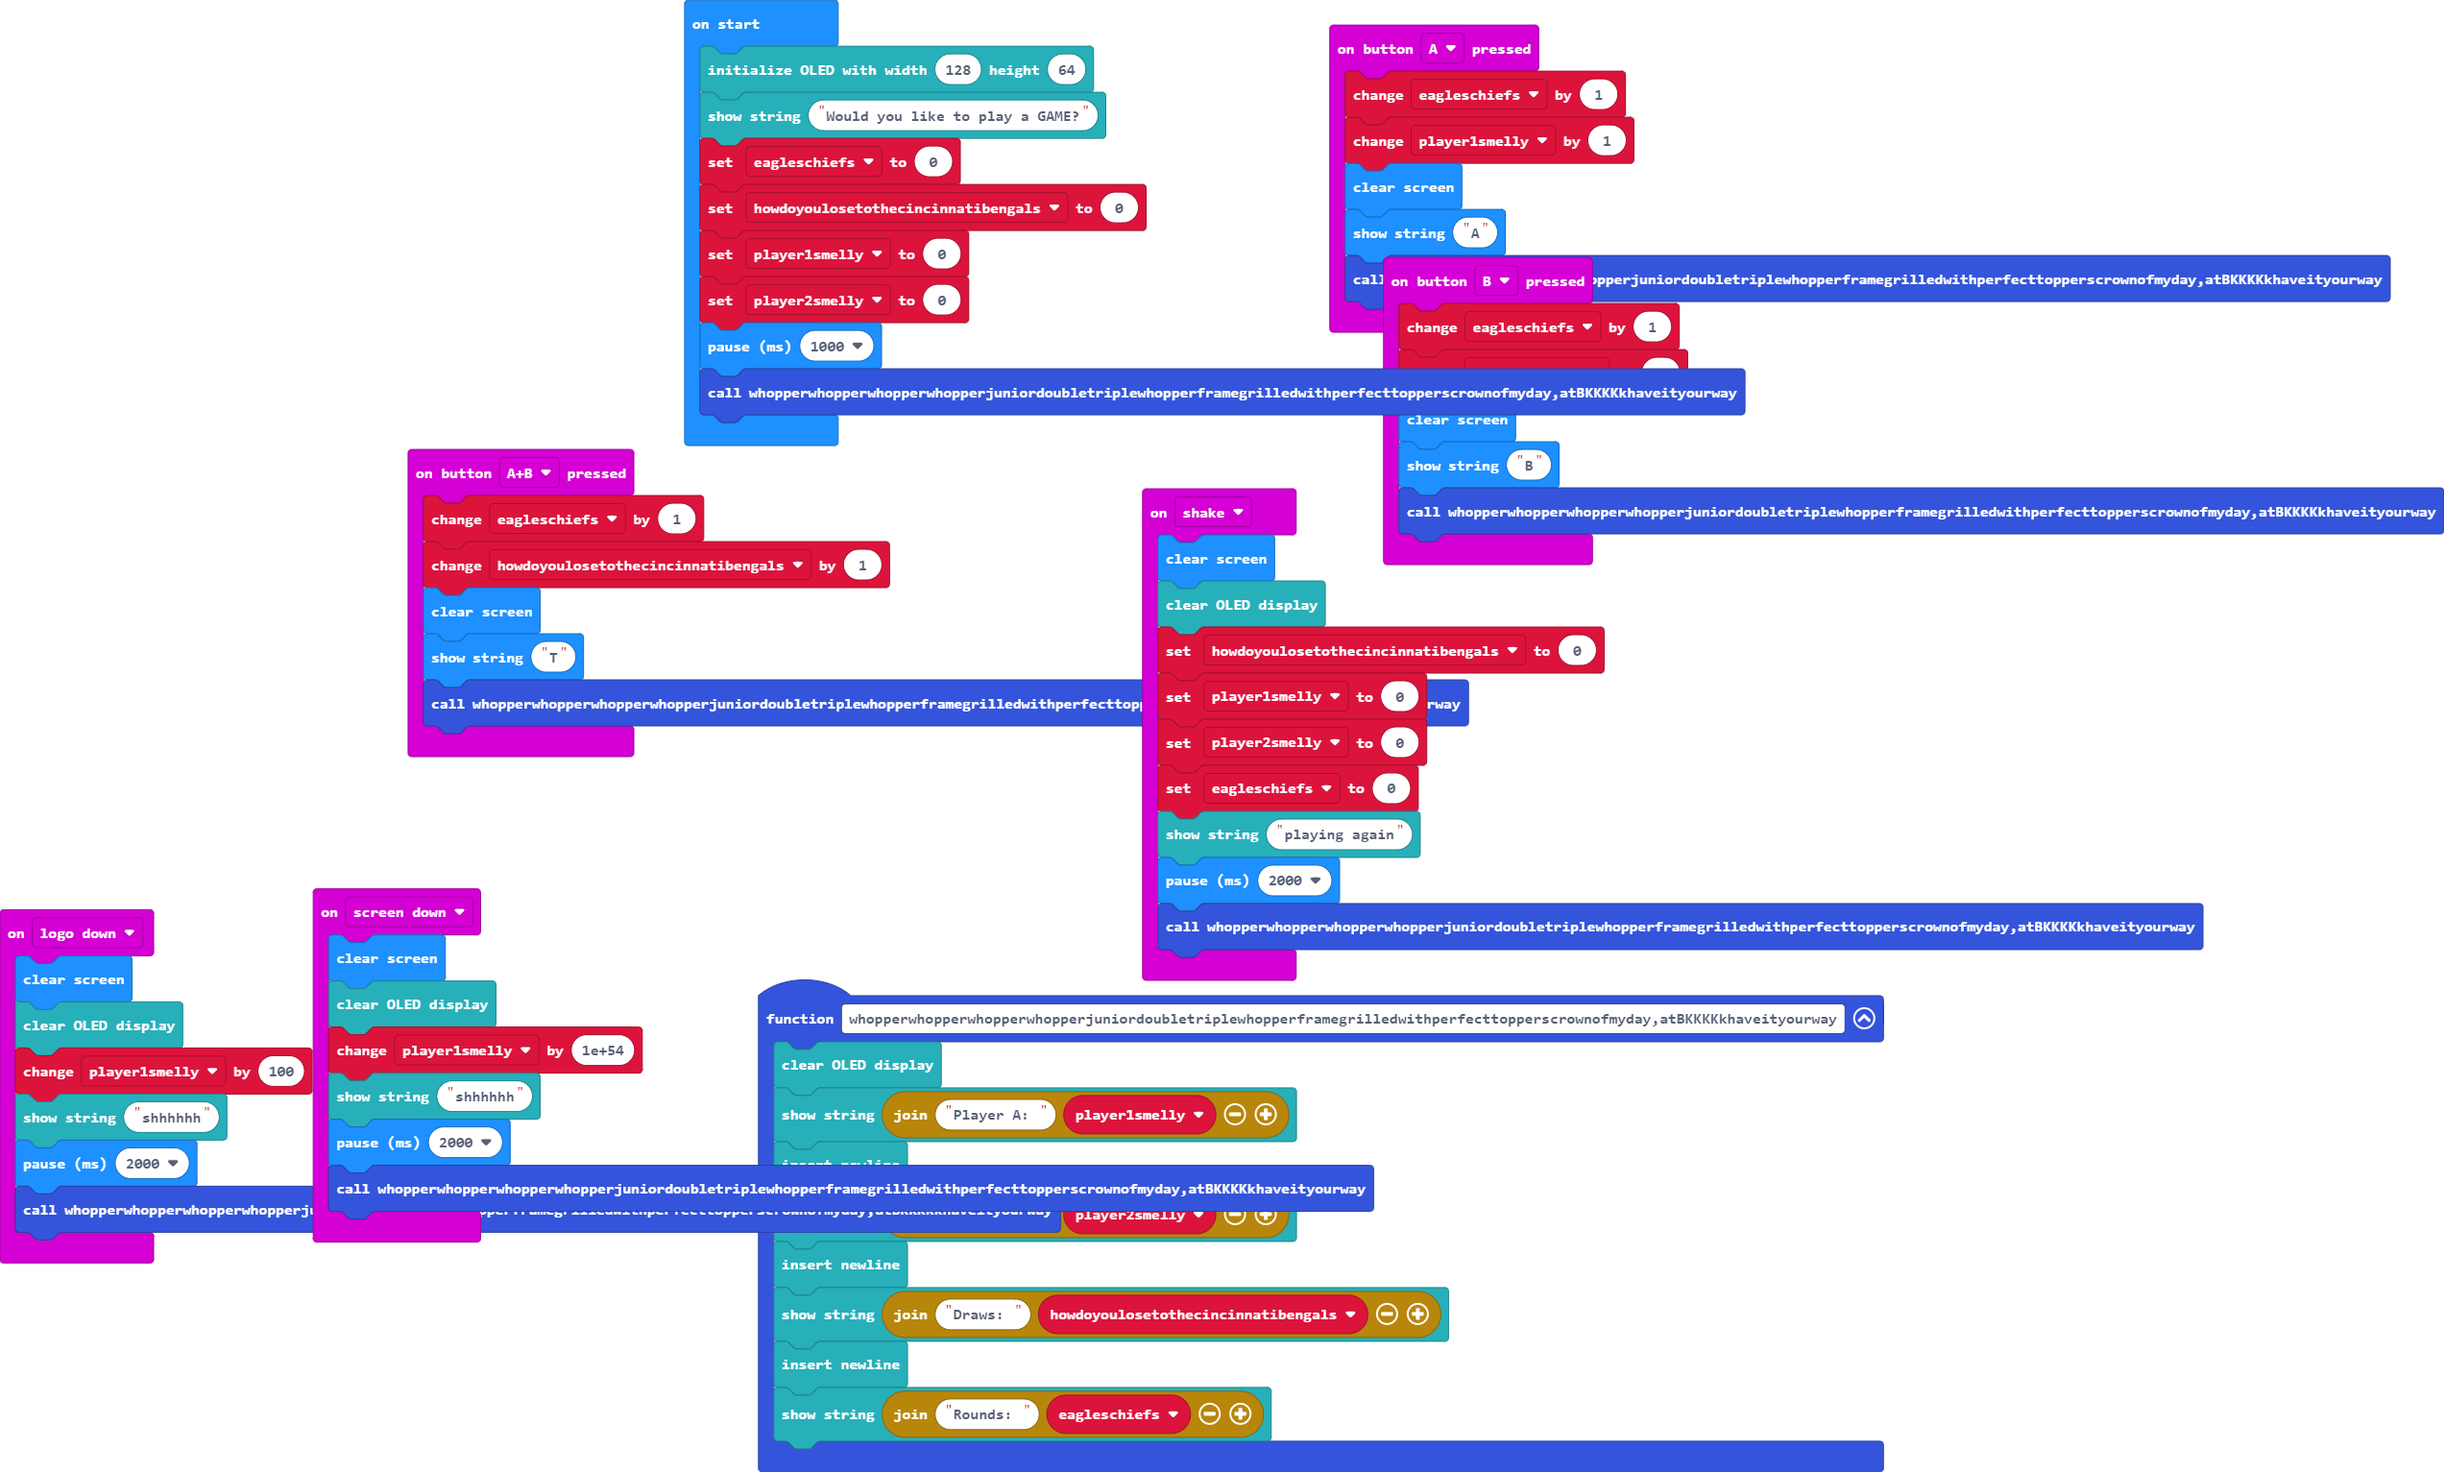
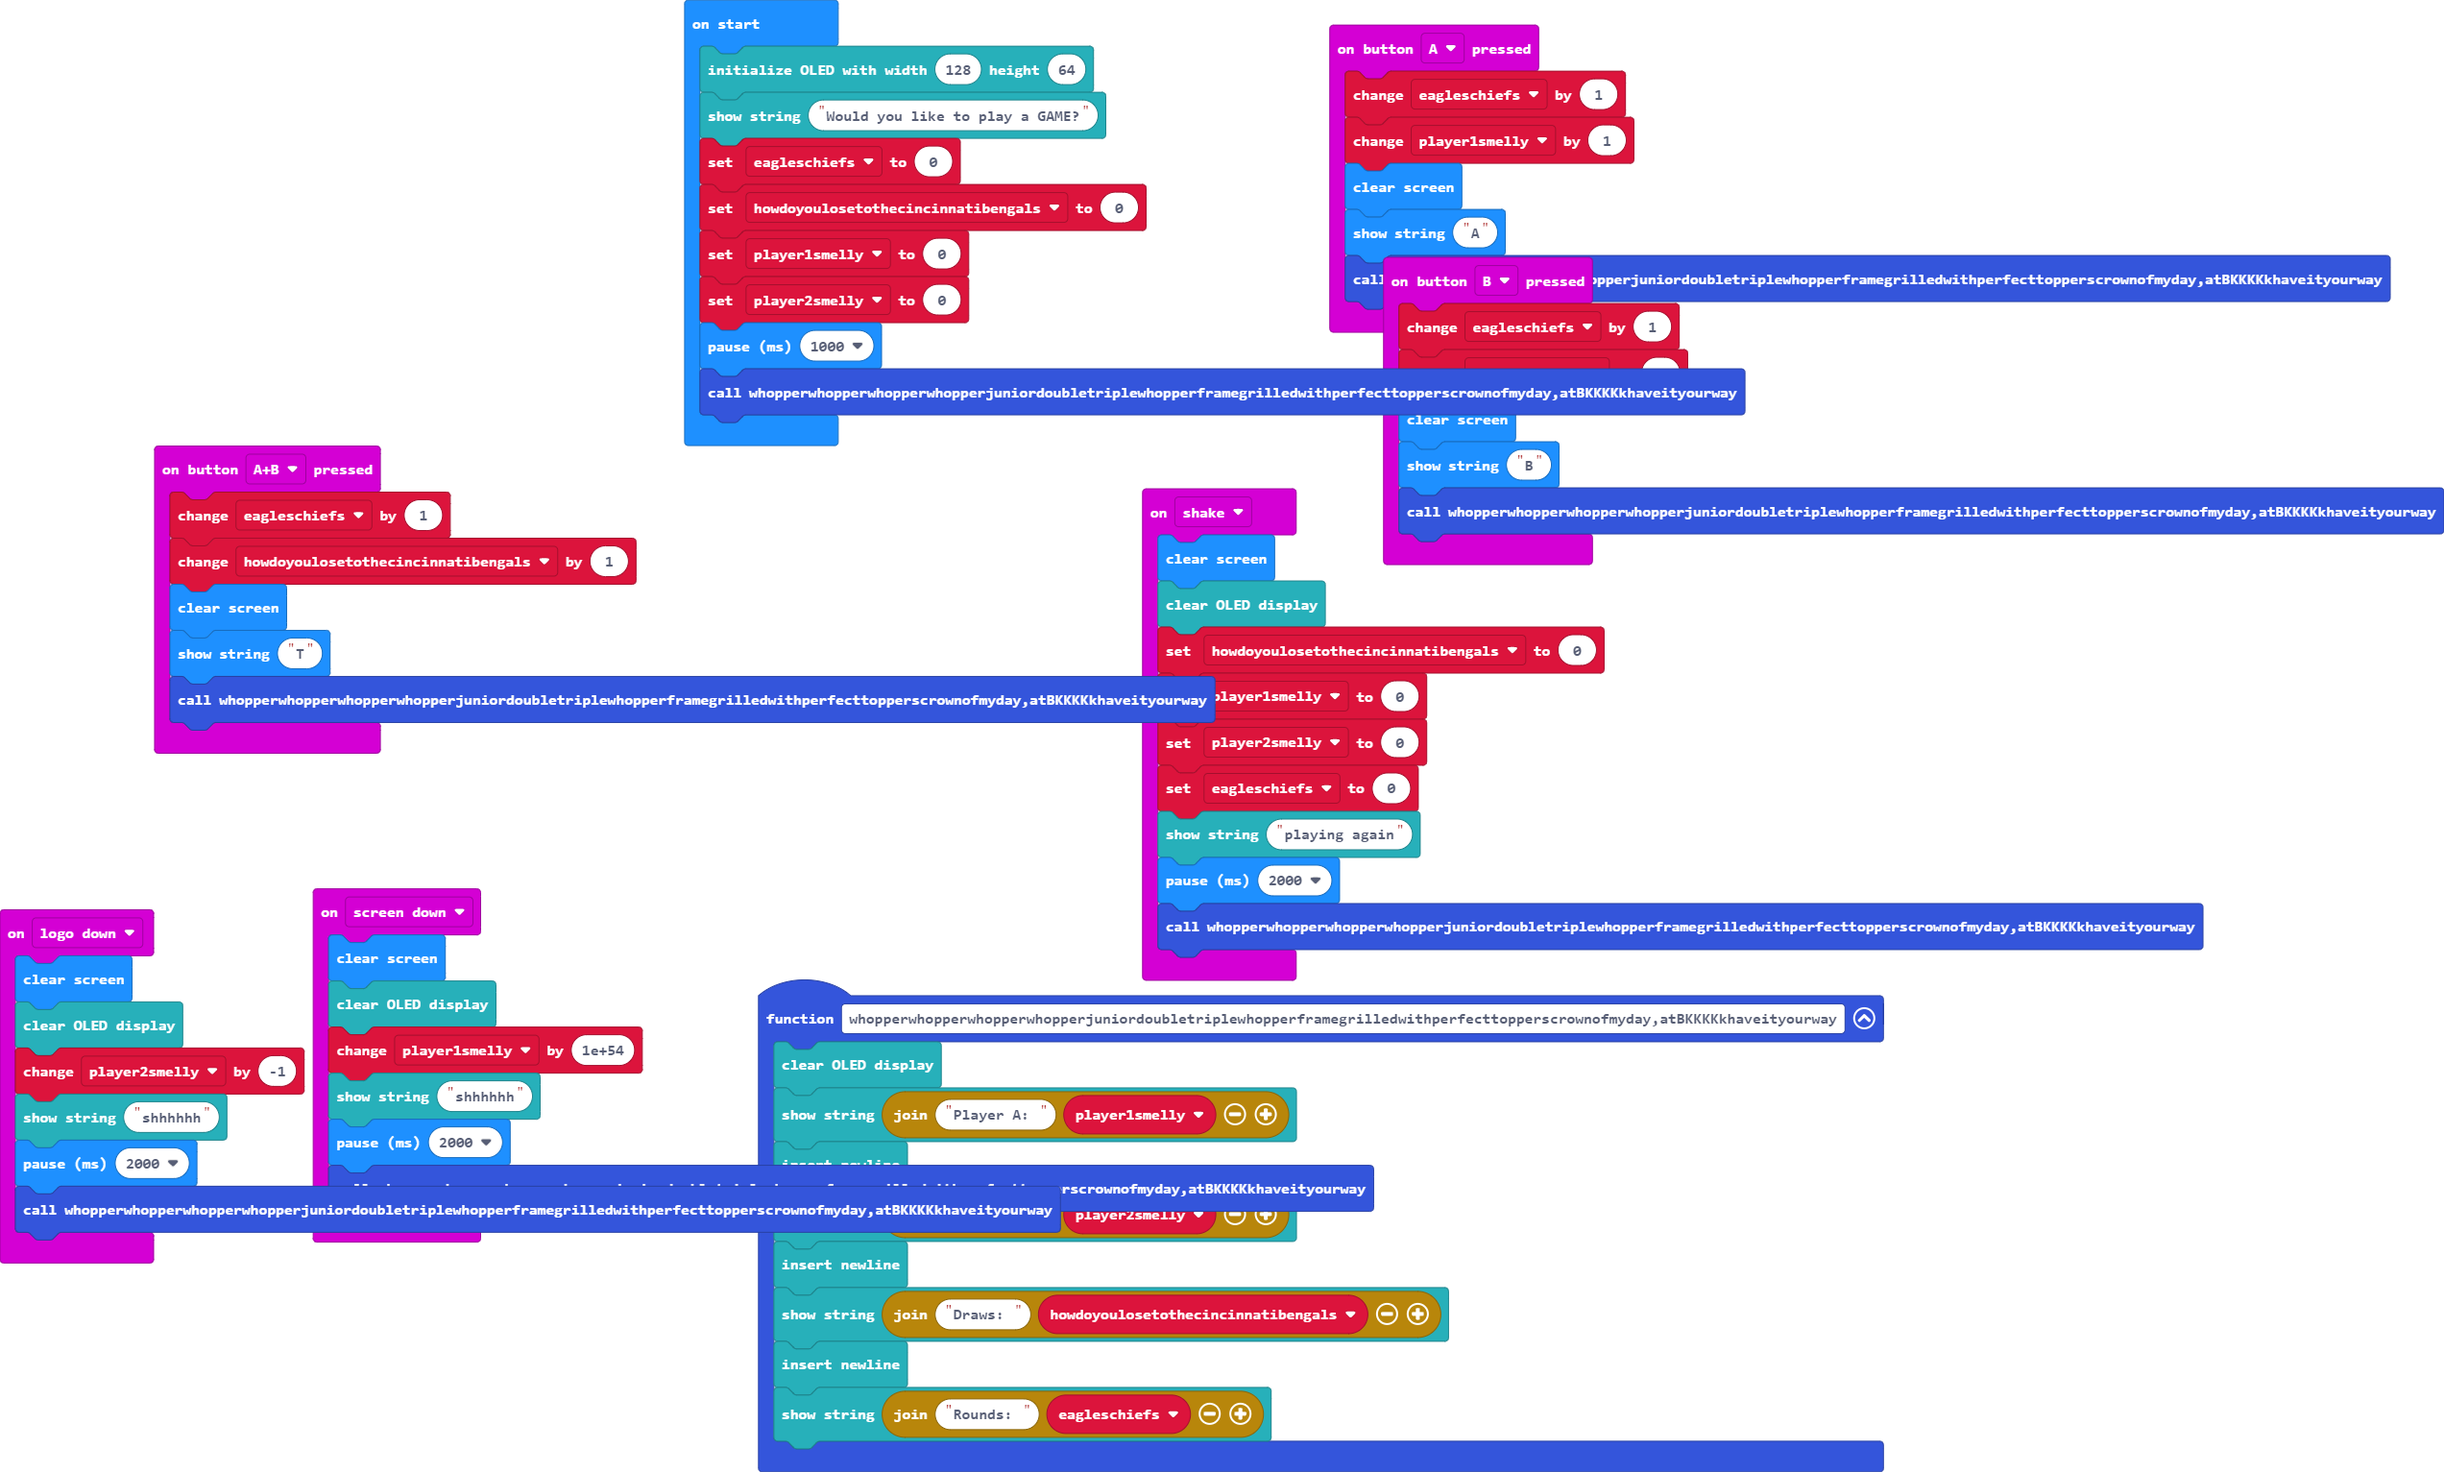
Update main.blocks, main.ts

diff --git a/main.ts b/main.ts
@@ -41,7 +41,7 @@ input.onGesture(Gesture.Shake, function () {
 input.onGesture(Gesture.LogoDown, function () {
     basic.clearScreen()
     OLED.clear()
-    player1smelly += 100
+    player2smelly += -1
     OLED.writeStringNewLine("shhhhhh")
     basic.pause(2000)
     whopperwhopperwhopperwhopperjuniordoubletriplewhopperframegrilledwithperfecttopperscrownofmydayatBKKKKkhaveityourway()
